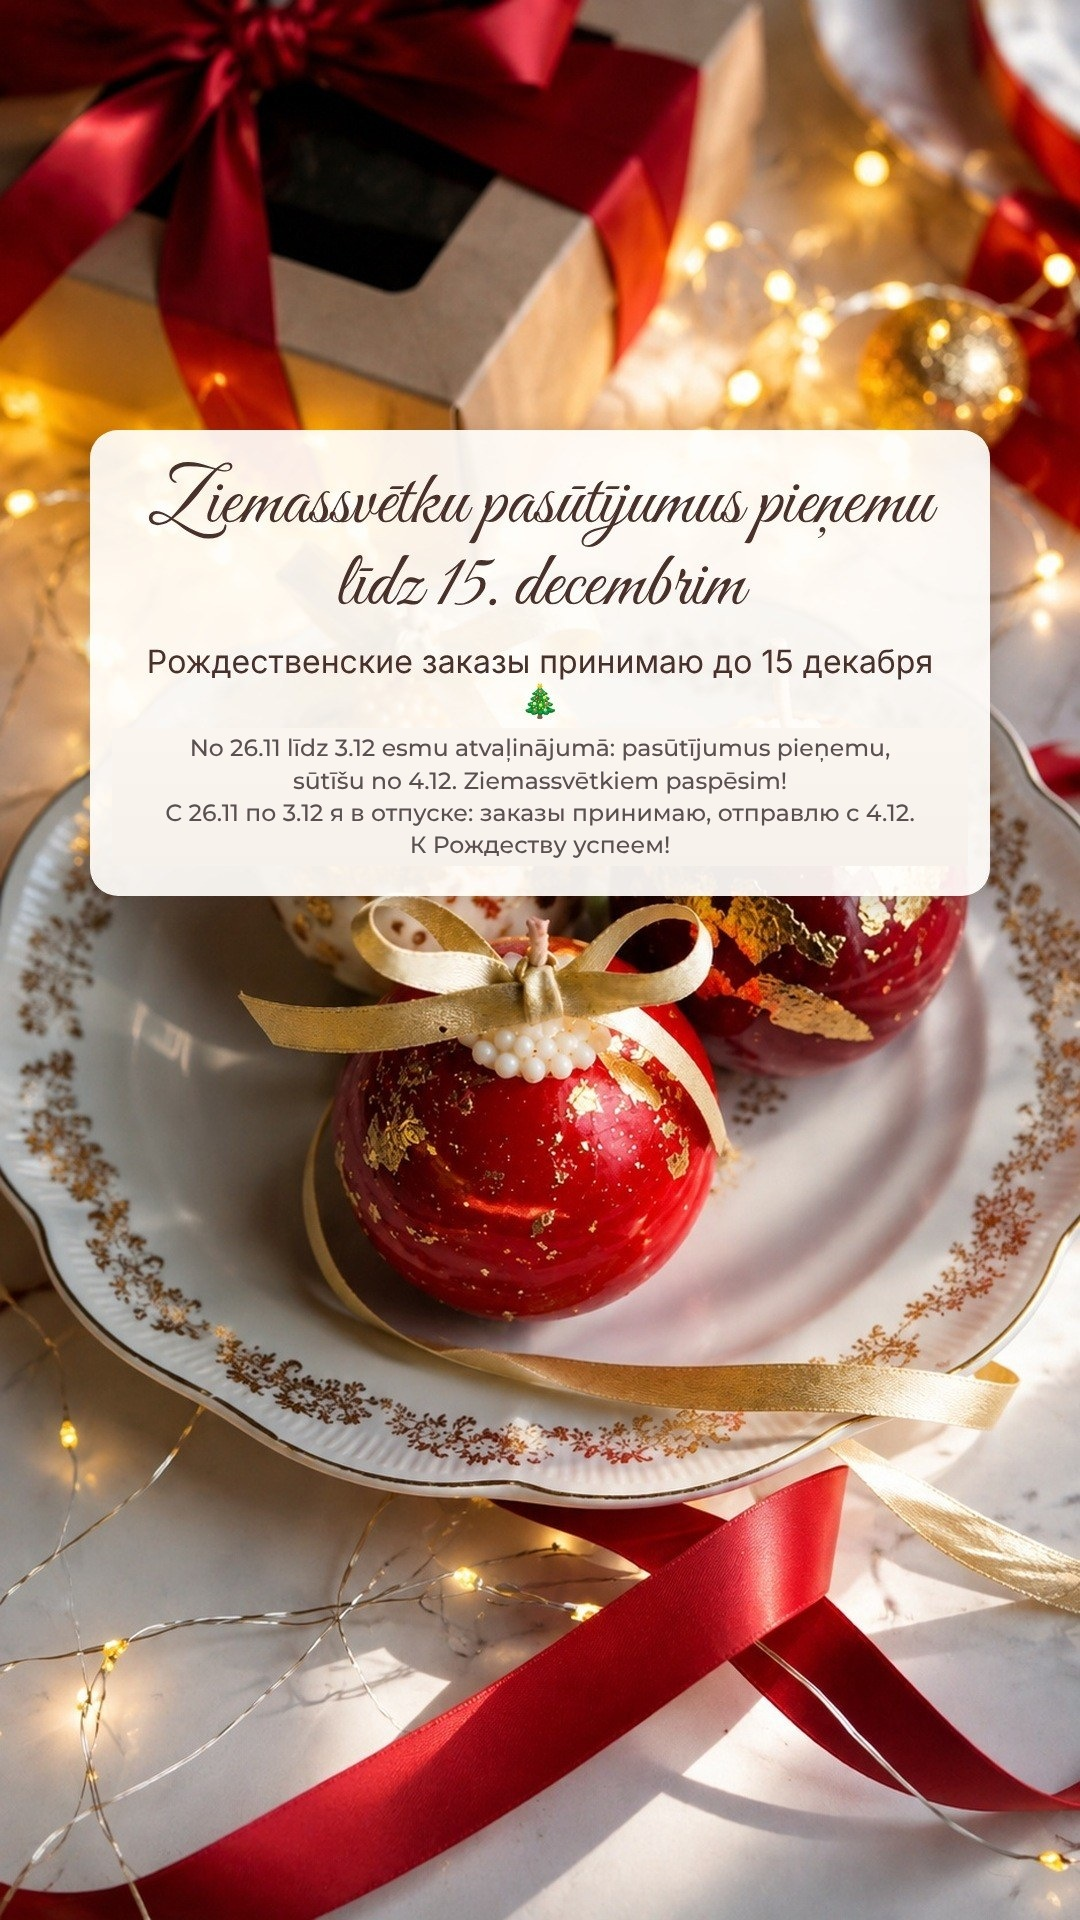
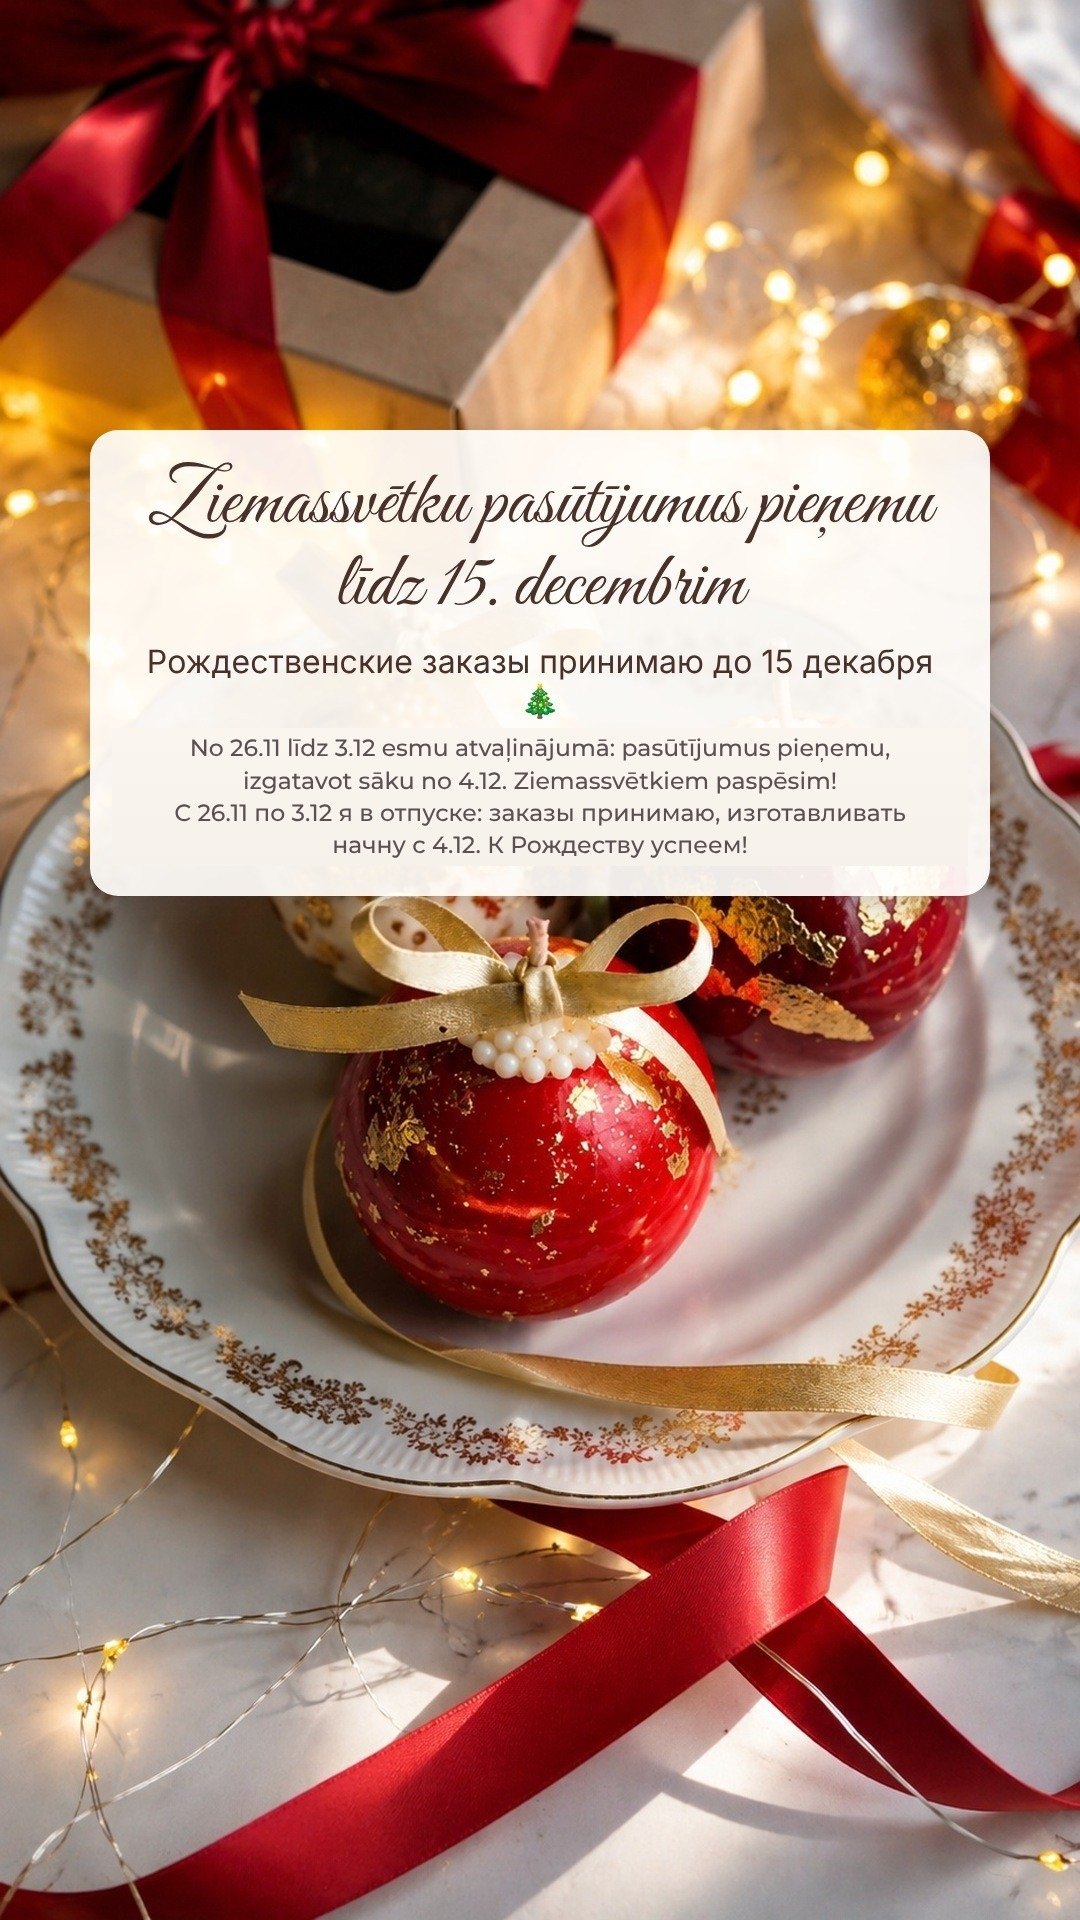
Instagram: 'izgatavot sāku no 4.12' instead of shipping wording
Claude-Session: https://claude.ai/code/session_011DEezvSaEhxw8TghrYhENc

Changed region(s): [[0.1528, 0.4062, 0.8556, 0.4688]]

diff --git a/CLAUDE.md b/CLAUDE.md
@@ -125,7 +125,7 @@
 **Сезон до 31.12**
 - Главное — новогодняя коллекция: Ziemassvētku bumbas 9 € (⌀6 см; бордо, тёмно-зелёный, ярко-красный, молочный), шар в подарочной коробке 15 €, фигурки (пряничный человечек, олень, снеговик, ёлочка) 5 € в крафт-коробке (идея: подарок воспитательнице или учителю).
 - Свадебные посты до января не ставить (решение Алины 11.11.2026).
-- Отпуск Алины **26.11–3.12** (уточнено Алиной 11.11.2026): заказы на сайте принимаются, отправка с 4.12. Пост про отпуск 25.11 (Алина закрепляет его в профиле) и сторис 26.11. В эти дни не обещать быструю отправку и не звать в директ.
+- Отпуск Алины **26.11–3.12** (уточнено Алиной 11.11.2026): заказы на сайте принимаются, изготовление (обработка заказов) начинается с 4.12 — писать «sāku izgatavot no 4.12 / изготавливать начну с 4.12», не «отправлю». Пост про отпуск 25.11 (Алина закрепляет его в профиле) и сторис 26.11. В эти дни не обещать быструю отправку и не звать в директ.
 - До 25.11 — «закажи до отпуска»; 4–15.12 — обратный отсчёт до 15.12; после 15.12 доставку к праздникам не обещать.
 - Концепция сезона: «Iededz sveci. Iedomājies vēlēšanos. / Зажги свечу. Загадай желание.»
 
